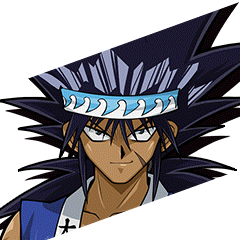
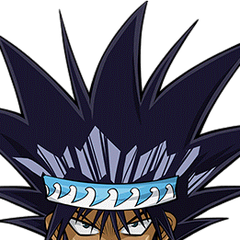
Uncut square CPU portraits from full Duel Links renders, square card-art windows on menu tiles, arrows mirrored in right-to-left languages, desktop duel setup with the roster filling the left and deck plus Begin on the right

diff --git a/src/app/screens/title.ts b/src/app/screens/title.ts
@@ -49,11 +49,11 @@ const changelog = (): [string, string[]][] => [
 /** A subtitle only where it reads in the player's language: a new line without a translation stays out. */
 const sub = (text: string) => (locale() === 'en' || t(text) !== text ? t(text) : '');
 
-/** Desktop menu tiles: the card's art, faded, behind the label. */
+/** Desktop menu tiles: the card's square art window (card image is 421x614, art box at 50,110 size 320). */
 const tileArt = (name: string, lit: boolean) => {
   const card = CARDS.find((c) => c.name === name);
   const src = card ? cardSrc(card.id) : '';
-  return src ? `<img src="${esc(src)}" alt="" aria-hidden="true" class="pointer-events-none absolute -top-6 -right-10 hidden w-44 rotate-12 object-cover transition duration-300 group-hover:rotate-6 lg:block ${lit ? 'opacity-25 mix-blend-multiply' : 'opacity-20 group-hover:opacity-35'}">` : '';
+  return src ? `<span aria-hidden="true" class="pointer-events-none absolute top-5 end-5 hidden size-24 overflow-hidden border transition duration-300 lg:block ${lit ? 'border-[#1d1505]/40 shadow-[0_6px_18px_#1d150555]' : 'border-brass/40 opacity-70 shadow-[0_6px_18px_#0008] group-hover:opacity-100'}"><img src="${esc(src)}" alt="" class="absolute top-[-34.4%] left-[-15.6%] w-[131.6%] max-w-none transition duration-300 group-hover:scale-105"></span>` : '';
 };
 
 const title: Screen = (root) => {
@@ -80,7 +80,7 @@ const title: Screen = (root) => {
       <nav class="grid w-full gap-2.5 lg:grid-cols-4 lg:gap-4" aria-label="${esc(t('Main menu'))}">
         ${([['Multiplayer', 'online', t('Online Duel'), sub('Play the live lobby or a friend'), 'Dark Magician'], ['Setup', 'solo', t('Solo Duel'), sub('Duel a CPU opponent'), 'Blue-Eyes White Dragon'], ['DeckEditor', 'deck', t('Deck Builder'), sub('Build and edit your decks'), 'Pot of Greed'], ['Watch', 'replay', t('Replays'), sub('Watch two CPU duelists play each other'), 'Time Wizard']] as const)
           .map(([to, key, label, sub, art], index) => `<button data-go="${to}" data-click style="animation-delay:${80 + index * 60}ms" class="group relative flex animate-rise items-center gap-4 overflow-hidden border px-5 py-[min(14px,1.6svh)] text-left transition active:scale-[.98] focus-visible:outline-2 focus-visible:outline-offset-2 focus-visible:outline-glow lg:h-56 lg:flex-col lg:items-start lg:justify-end lg:gap-2 lg:p-5 ${index === 0 ? 'border-transparent bg-brass text-[#1d1505] shadow-lg shadow-brass/25 hover:bg-brass-lit' : 'border-white/10 bg-panel/80 text-ink backdrop-blur hover:border-brass/50 hover:bg-raised'}">
-            ${tileArt(art, index === 0)}<span class="relative grid place-items-center lg:mb-auto lg:size-12 lg:border ${index === 0 ? 'lg:border-[#1d1505]/30 lg:bg-[#1d1505]/10' : 'lg:border-brass/40 lg:bg-void/60 lg:text-brass-txt'}">${icon(key, 'size-6')}</span><span class="relative min-w-0 flex-1 lg:w-full lg:flex-none"><b class="block font-display text-[15px] tracking-wide lg:text-lg">${esc(label)}</b>${sub ? `<small class="block truncate text-xs lg:mt-1 lg:line-clamp-2 lg:text-[13px] lg:whitespace-normal ${index === 0 ? 'text-[#1d1505]/75' : 'text-dim'}">${esc(sub)}</small>` : ''}</span><span class="relative text-xl opacity-60 transition group-hover:translate-x-1 lg:absolute lg:top-5 lg:right-5">${icon('next', 'size-5')}</span></button>`).join('')}
+            ${tileArt(art, index === 0)}<span class="relative grid place-items-center lg:mb-auto lg:size-12 lg:border ${index === 0 ? 'lg:border-[#1d1505]/30 lg:bg-[#1d1505]/10' : 'lg:border-brass/40 lg:bg-void/60 lg:text-brass-txt'}">${icon(key, 'size-6')}</span><span class="relative min-w-0 flex-1 lg:w-full lg:flex-none lg:pe-8"><b class="block font-display text-[15px] tracking-wide lg:text-lg">${esc(label)}</b>${sub ? `<small class="block truncate text-xs lg:mt-1 lg:line-clamp-2 lg:text-[13px] lg:whitespace-normal ${index === 0 ? 'text-[#1d1505]/75' : 'text-dim'}">${esc(sub)}</small>` : ''}</span><span class="relative text-xl opacity-60 transition group-hover:translate-x-1 rtl:group-hover:-translate-x-1 lg:absolute lg:bottom-6 lg:end-5">${icon('next', 'size-5')}</span></button>`).join('')}
         <button data-go="Debug" class="mp-btn" hidden>${esc(t('Debug Duel'))}</button>
       </nav>
       <div class="mt-[min(20px,2svh)] grid w-full grid-cols-2 gap-2 sm:grid-cols-4 lg:mt-6 lg:flex lg:w-auto lg:justify-center">

diff --git a/src/app/screens/setup.ts b/src/app/screens/setup.ts
@@ -31,7 +31,7 @@ const setup: Screen = (root) => {
   let startingLP: 4000 | 8000 = store.get('arcana-duel.starting-lp') === '4000' ? 4000 : 8000;
 
   root.className = 'app-bg fixed inset-0 overflow-y-auto';
-  const page = html(`<div class="mx-auto flex min-h-full w-full max-w-5xl flex-col gap-3 px-4 lg:gap-4 pb-[calc(env(safe-area-inset-bottom)+20px)] sm:px-6"></div>`);
+  const page = html(`<div class="mx-auto flex min-h-full w-full max-w-6xl lg:h-full flex-col gap-3 px-4 lg:gap-4 pb-[calc(env(safe-area-inset-bottom)+20px)] sm:px-6"></div>`);
   root.append(page);
   page.append(header(t('Duel Setup'), () => void go('Title')));
   const picker = duelistPicker(t('CPU opponent'), opponentIndex, (index) => {
@@ -60,15 +60,18 @@ const setup: Screen = (root) => {
       <button class="mp-btn max-lg:!w-11 max-lg:!px-0" data-edit aria-label="${esc(t('Edit Deck'))}" title="${esc(t('Edit Deck'))}">${icon('rename', 'size-4')}<span class="max-lg:hidden">${esc(t('Edit Deck'))}</span></button>
       <button class="mp-btn max-lg:!w-11 max-lg:!px-0" data-new aria-label="${esc(t('+ New Deck'))}" title="${esc(t('+ New Deck'))}">${icon('plus', 'size-4')}<span class="max-lg:hidden">${esc(t('+ New Deck').replace('+ ', ''))}</span></button>
     </div></section>`);
-  const grid = html('<div class="grid items-start gap-3 lg:grid-cols-[1fr_auto_1fr] lg:gap-4"></div>');
-  grid.append(picker.el, html(`<div class="self-center text-center font-display text-lg text-brass-txt/80 max-lg:-my-2 lg:text-3xl">${esc(t('VS'))}</div>`), deckPanel);
+  // phones: one column with the duel button at the bottom; desktop: the roster fills the left, your deck and the button sit on the right
+  const grid = html('<div class="flex flex-1 flex-col gap-3 lg:grid lg:min-h-0 lg:grid-cols-[minmax(0,1fr)_340px] lg:gap-5"></div>');
+  const side = html('<div class="flex flex-1 flex-col gap-3 lg:min-h-0 lg:gap-5"></div>');
+  grid.append(picker.el, html(`<div class="text-center font-display text-lg text-brass-txt/80 -my-2 lg:hidden">${esc(t('VS'))}</div>`), side);
   const lp = html(`<div class="flex items-center justify-center gap-2" role="radiogroup" aria-label="${esc(t('Starting Life Points'))}">
     <span class="mr-1 text-sm text-dim">${esc(t('Starting Life Points'))}</span>
     ${[4000, 8000].map((value) => `<button class="mp-btn small" role="radio" data-lp="${value}">${num(value)}</button>`).join('')}</div>`);
-  const start = html<HTMLButtonElement>(`<button class="mp-btn primary big w-full sm:w-80">${icon('play', 'size-4')}${esc(t('Begin Duel'))}</button>`);
-  const footer = html('<div class="mt-auto flex flex-col items-center gap-3 pt-1"></div>');
+  const start = html<HTMLButtonElement>(`<button class="mp-btn primary big w-full sm:w-80 lg:w-full">${icon('play', 'size-4')}${esc(t('Begin Duel'))}</button>`);
+  const footer = html('<div class="mt-auto flex flex-col items-center gap-3 pt-1 lg:border lg:border-white/[.09] lg:bg-panel lg:p-5 lg:shadow-[0_10px_30px_#0006]"></div>');
   footer.append(lp, start);
-  page.append(grid, footer);
+  side.append(deckPanel, footer);
+  page.append(grid);
 
   const edit = (createNew: boolean) => {
     if (names[deckIndex]) setSelectedDeck(names[deckIndex]);

diff --git a/src/app/duelist.ts b/src/app/duelist.ts
@@ -30,21 +30,21 @@ function face(duelist: Pick<Opponent, 'id' | 'ace' | 'name'>) {
 
 export function duelistPicker(label: string, selected: number, onChange: (index: number) => void, extra?: Omit<Opponent, 'deck'>) {
   const roster = extra ? [...OPPONENTS, extra] : OPPONENTS;
-  const root = html(`<section class="mp-panel overflow-hidden">
+  const root = html(`<section class="mp-panel flex min-h-0 flex-col overflow-hidden">
     <div class="flex items-center justify-between px-5 pt-4"><span class="eyebrow">${esc(label)}</span><span class="text-xs text-dim" data-pos></span></div>
     <div class="flex items-center gap-2 px-3 py-3 lg:gap-3 lg:px-5 lg:pb-4">
       <button class="mp-icon" data-prev aria-label="${esc(t('Previous'))}">${icon('prev')}</button>
-      <div class="flex min-w-0 flex-1 items-center gap-3 lg:flex-col lg:gap-0">
-        <div class="relative grid aspect-square w-20 flex-none place-items-center overflow-hidden border border-brass/40 bg-[linear-gradient(160deg,#2a2250,#0c0a18)] shadow-xl shadow-black/50 lg:mx-auto lg:w-36" data-big></div>
-        <div class="min-w-0 flex-1 lg:w-full lg:pt-3 lg:text-center">
-          <h2 class="truncate font-display text-base text-ink lg:text-xl" data-name></h2>
-          <p class="line-clamp-2 text-xs text-brass-txt lg:text-sm" data-title></p>
-          <p class="mx-auto mt-1 line-clamp-2 max-w-[44ch] text-xs text-dim max-lg:hidden lg:min-h-[2.5em]" data-style></p>
+      <div class="flex min-w-0 flex-1 items-center gap-3 lg:gap-6">
+        <div class="relative grid aspect-square w-20 flex-none place-items-center overflow-hidden border border-brass/40 bg-[linear-gradient(160deg,#2a2250,#0c0a18)] shadow-xl shadow-black/50 lg:w-40 xl:w-48" data-big></div>
+        <div class="min-w-0 flex-1">
+          <h2 class="truncate font-display text-base text-ink lg:text-3xl" data-name></h2>
+          <p class="line-clamp-2 text-xs text-brass-txt lg:mt-1 lg:text-base" data-title></p>
+          <p class="mt-3 line-clamp-3 max-w-[48ch] text-sm text-dim max-lg:hidden" data-style></p>
         </div>
       </div>
       <button class="mp-icon" data-next aria-label="${esc(t('Next'))}">${icon('next')}</button>
     </div>
-    <div class="flex snap-x gap-1.5 overflow-x-auto border-t border-white/[.06] bg-field/50 p-3 lg:grid lg:grid-cols-[repeat(auto-fill,minmax(40px,1fr))] lg:overflow-visible" data-strip role="listbox" aria-label="${esc(label)}"></div>
+    <div class="flex snap-x gap-1.5 overflow-x-auto border-t border-white/[.06] bg-field/50 p-3 lg:grid lg:min-h-0 lg:flex-1 lg:grid-cols-[repeat(auto-fill,minmax(64px,1fr)] xl:grid-cols-[repeat(auto-fill,minmax(76px,1fr))] lg:content-start lg:overflow-x-hidden lg:overflow-y-auto" data-strip role="listbox" aria-label="${esc(label)}"></div>
   </section>`);
   const strip = root.querySelector<HTMLElement>('[data-strip]')!;
   const tiles = [RANDOM, ...roster.map((_, index) => index)].map((index) => {

diff --git a/src/app/icons.ts b/src/app/icons.ts
@@ -31,8 +31,10 @@ const PATHS = {
 } as const;
 export type IconName = keyof typeof PATHS;
 
+/** Arrows that point along the reading direction mirror in right-to-left languages. */
+const DIRECTIONAL = new Set<IconName>(['arrowLeft', 'back', 'prev', 'next']);
 export const icon = (name: IconName, cls = 'size-5') =>
-  `<svg viewBox="0 0 24 24" class="${cls} flex-none" fill="none" stroke="currentColor" stroke-width="1.8" stroke-linecap="round" stroke-linejoin="round" aria-hidden="true">${PATHS[name]}</svg>`;
+  `<svg viewBox="0 0 24 24" class="${cls} flex-none${DIRECTIONAL.has(name) ? ' rtl:-scale-x-100' : ''}" fill="none" stroke="currentColor" stroke-width="1.8" stroke-linecap="round" stroke-linejoin="round" aria-hidden="true">${PATHS[name]}</svg>`;
 
 /** An icon as an SVG data URL, for canvas textures (the duel's menu). */
 export const iconUrl = (name: IconName, color = '#e0b34f') =>
